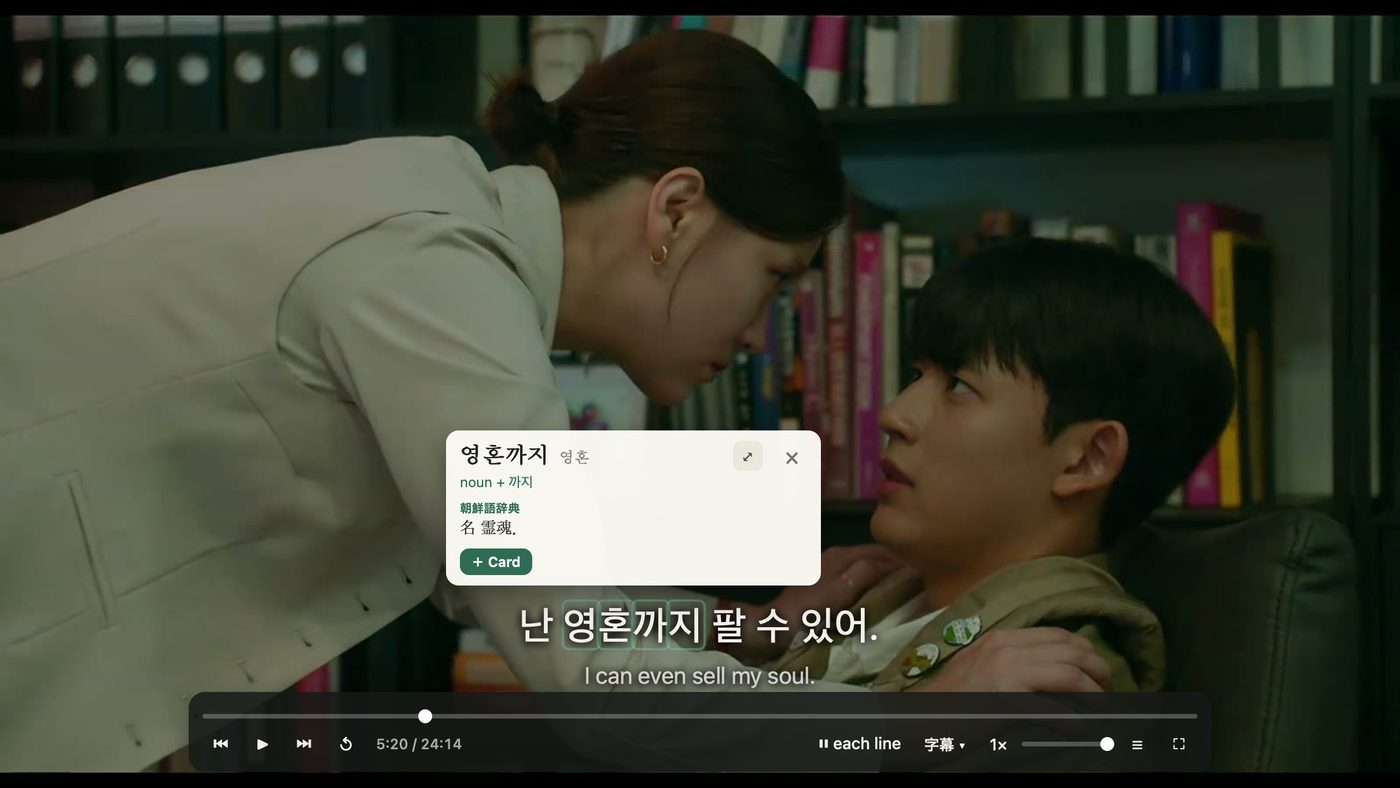
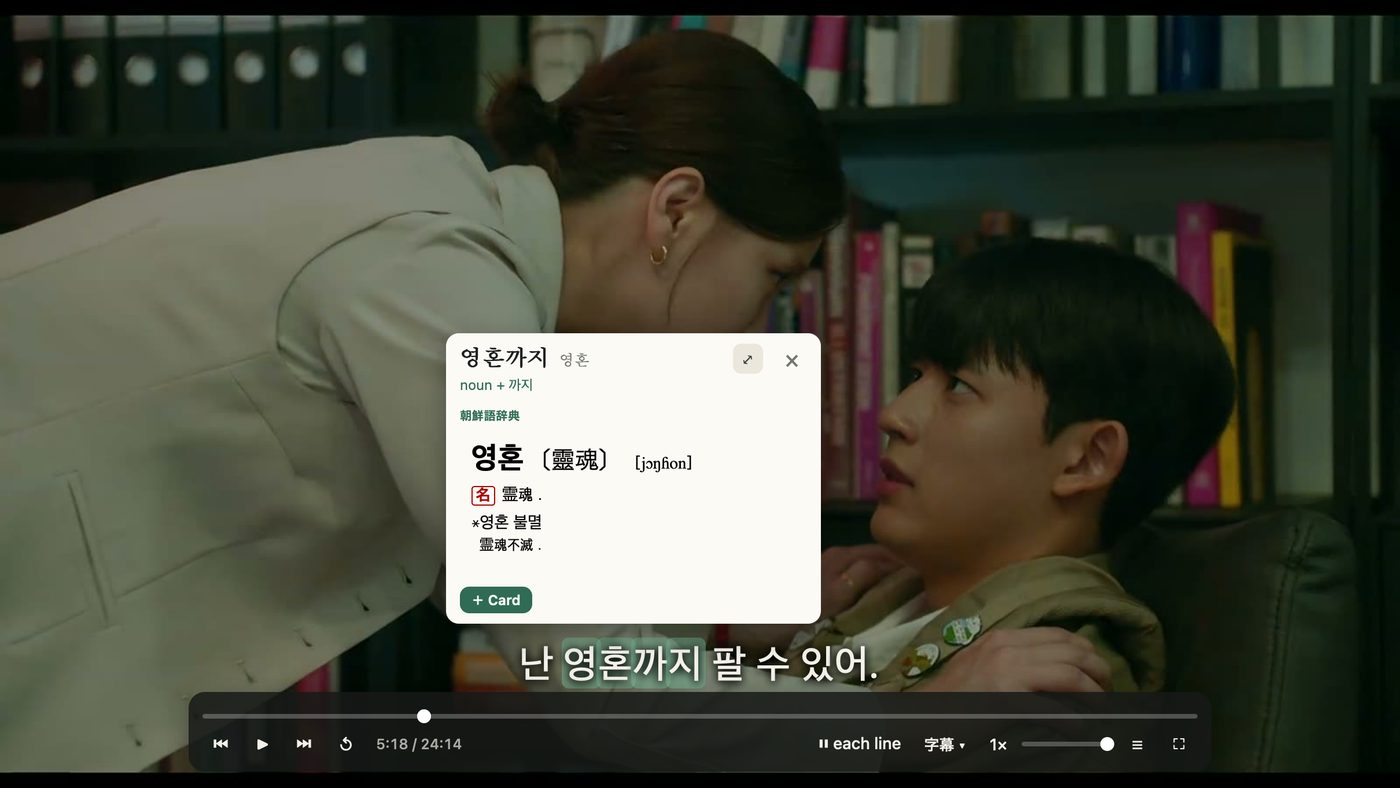
Player popup shows dictionary entries as laid out, with tabs and lookups inside them; ambiguous Korean forms offer the other verb

Changed region(s): [[0.3071, 0.3959, 0.645, 0.8832]]

diff --git a/desktop/web/player.js b/desktop/web/player.js
@@ -238,17 +238,13 @@ async function showPop(res,cue,r1,r2,P=pop){
     // The word as the subtitle writes it (門口), with the dictionary's form when that differs (门口, 食べる).
     const shown=res.written&&res.written!==res.key?res.written:res.key;
     P.el.innerHTML=`<div class="p-head"><b class="p-word">${esc(shown)}</b>${shown!==res.key?`<span class="p-key">${esc(res.key)}</span>`:''}<span class="p-freq"></span><span class="p-saved"></span><button class="p-size" data-p="size" title="Bigger / smaller popup"></button><button class="p-close" data-p="close" title="Close (Esc)">×</button></div>
-      ${res.explain?`<div class="p-explain">${esc(res.explain)}</div>`:''}
-      <div class="p-defs">${items.map((it,n)=>`<div class="p-def" data-n="${n}"><div class="p-dict">${esc(shortName(it.dictionary))}${it.page&&it.page!==it.key?` · ${esc(it.page)}`:''}</div><div class="p-text">…</div></div>`).join('')}</div>
-      <div class="p-full" hidden></div>
-      <div class="p-actions"><button data-p="card">＋ Card</button><button data-p="full">Full entry</button><button data-p="main">Open in Kotoba</button><button data-p="copy">Copy</button></div>`;
+      ${res.explain||alts(res).length?`<div class="p-explain">${esc(res.explain||'')}${alts(res).map((f,j)=>`<button class="p-alt" data-p="alt" data-j="${j}" title="${esc(f.explain||'')}">or ${esc(f.base)}</button>`).join('')}</div>`:''}
+      <div class="p-tabs">${items.map((it,n)=>`<button class="p-tab${n?'':' on'}" data-p="tab" data-n="${n}">${esc(shortName(it.dictionary))}</button>`).join('')}</div>
+      <div class="p-entry"></div>
+      <div class="p-actions"><button data-p="card">＋ Card</button><button data-p="main">Open in Kotoba</button><button data-p="copy">Copy</button></div>`;
     P.items=items;
-    api('gloss.rec',{recs:items.map(x=>x.rec),max:360}).then(g=>{
-      if(P.key!==key)return;
-      // Definitions are drawn a character at a time, so a word in them can be looked up too.
-      g.forEach((x,n)=>{const el=P.el.querySelector(`.p-def[data-n="${n}"] .p-text`);if(el)el.innerHTML=x.text?chars(x.text,'dch'):'—';});
-      place(P);
-    }).catch(()=>{});
+    // The entry as the dictionary lays it out (same page as the main window), not flattened text.
+    showEntry(P,0);
     Promise.all([api('freq',{key:res.key,reading:''}),dictGroups()]).then(([f,groups])=>{
       if(P.key!==key)return;
       // Only frequency lists in the subtitle's language (JPDB ranks mean nothing for a Cantonese word).
@@ -266,6 +262,8 @@ async function showPop(res,cue,r1,r2,P=pop){
   P.r1=r1;P.r2=r2;
   place(P);
 }
+/** Other readings of the same form (걸었다고: 걷다 or 걸다), which only the context can decide between. */
+function alts(res){return (res.forms||[]).filter(f=>f.base&&f.base!==res.key&&f.items&&f.items.length).slice(0,2);}
 let groupsCache=null;
 function dictGroups(){return groupsCache||(groupsCache=api('dicts').then(ds=>Object.fromEntries(ds.map(d=>[d.id,d.grp||'Japanese']))));}
 function bars(rank){const l=!rank?0:rank<=2000?4:rank<=8000?3:rank<=25000?2:1;return `<span class="fbars l${l}"><i></i><i></i><i></i><i></i></span>`;}
@@ -294,43 +292,101 @@ function textLang(t){
   if(/[\u4e00-\u9fff]/.test(c))return st.lang==='zh'?'zh':'ja';
   return '';
 }
-let defT=0,defAt=null,lastPopPoint=null;
+let defT=0;
 function wire(P){
   const el=P.el;
   el.addEventListener('mouseenter',()=>clearTimeout(pop.hideT));
   el.addEventListener('mouseleave',(e)=>{if(!pop.pinned&&!(e.relatedTarget&&e.relatedTarget.closest&&e.relatedTarget.closest('.kpop')))leaveSubs();});
-  el.addEventListener('mousemove',(e)=>{
-    lastPopPoint={x:e.clientX,y:e.clientY};
-    if(!KotobaHover.matches(e))return;
-    const span=e.target.closest('.dch');if(!span)return;
-    const box=span.closest('.p-text');const at=P.level+':'+box.parentElement.dataset.n+':'+span.dataset.i;
-    if(at===defAt)return;defAt=at;
-    clearTimeout(defT);defT=setTimeout(()=>lookupInDef(P,box,+span.dataset.i,at),90);
-  });
   el.addEventListener('click',(e)=>onPopClick(P,e));
 }
-async function lookupInDef(P,box,i,at){
-  const spans=[...box.querySelectorAll('.dch')];
-  const text=spans.slice(i,i+24).map(x=>x.textContent).join('');
+const AUDIO_HREF=/^sound:\/\/|\.(mp3|m4a|aac|ogg|oga|opus|wav|spx)(#.*)?$/i;
+function showEntry(P,n){
+  const it=P.items&&P.items[n];if(!it)return;
+  P.tab=n;
+  P.el.querySelectorAll('.p-tab').forEach(t=>t.classList.toggle('on',+t.dataset.n===n));
+  const f=document.createElement('iframe');f.src=`/d/${it.dict}/${it.rec}.entry`;
+  P.el.querySelector('.p-entry').replaceChildren(f);
+  f.addEventListener('load',()=>{
+    const d=f.contentDocument;if(!d||!d.body)return;
+    const css=d.createElement('style');
+    css.textContent='body.kotoba-entry{padding:2px 6px 8px!important;font-size:14.5px}::highlight(kotoba){background-color:rgba(124,194,160,.5)}';
+    d.head.appendChild(css);
+    wireFrame(P,f,it);
+    fitFrame(P);setTimeout(()=>fitFrame(P),250);
+    // A page with several words (大辞林 けんのう: 献納, 権能) opens at the heading of the one looked up.
+    const key=P.res&&P.res.key,shown=P.res&&P.res.written;
+    const heads=[...d.querySelectorAll('[data-name*="見出"],[data-name*="表記"],[data-name="headword"],.yt-word,.headword,h1,h2,h3')];
+    const clean=s=>s.replace(/[\s・‐\-▽▼×]/g,'');
+    const h=heads.find(e=>{const t=clean(e.textContent);return t&&(t.includes(clean(key||''))||shown&&t.includes(clean(shown)));});
+    if(h){const r=h.getBoundingClientRect();if(r.top>40)f.contentWindow.scrollTo(0,r.top-8);}
+  });
+}
+function fitFrame(P){
+  const f=P.el.querySelector('.p-entry iframe');if(!f||!f.contentDocument)return;
+  const cap=P.el.classList.contains('big')?Math.min(440,innerHeight*.5):170;
+  f.style.height=Math.min(cap,f.contentDocument.documentElement.scrollHeight)+'px';
+  place(P);
+}
+// Hovering a word in an entry (with the hover key) opens the next popup for it.
+let lastFrame=null,defTok=null;
+function wireFrame(P,f,it){
+  const d=f.contentDocument;let last=null;
+  const probe=(x,y,key)=>{
+    if(!key)return;
+    const r=d.caretRangeFromPoint(x,y);if(!r||r.startContainer.nodeType!==3)return;
+    if(last&&last.node===r.startContainer&&last.off===r.startOffset)return;
+    last={node:r.startContainer,off:r.startOffset};
+    clearTimeout(defT);defT=setTimeout(()=>lookupInFrame(P,f,last.node,last.off),90);
+  };
+  d.addEventListener('mousemove',e=>{lastFrame={P,f,x:e.clientX,y:e.clientY,probe};probe(e.clientX,e.clientY,KotobaHover.matches(e));});
+  d.addEventListener('keydown',e=>{if(KotobaHover.isKey(e)&&lastFrame&&lastFrame.f===f)probe(lastFrame.x,lastFrame.y,true);});
+  d.addEventListener('click',e=>{
+    pop.pinned=true;
+    const a=e.target.closest('a[href]');if(!a)return;e.preventDefault();
+    const h=a.getAttribute('href');
+    if(AUDIO_HREF.test(h))new Audio(`/d/${it.dict}/`+h.replace(/^sound:\/\//i,'').replace(/^[\/\\]+/,'').replace(/#.*$/,'').split('/').map(encodeURIComponent).join('/')).play().catch(()=>{});
+  });
+}
+async function lookupInFrame(P,f,node,off){
+  const d=f.contentDocument;
+  // Up to 24 characters from the pointer on, across text nodes (ruby readings left out).
+  const walker=d.createTreeWalker(d.body,NodeFilter.SHOW_TEXT,{acceptNode:n=>n.parentElement&&n.parentElement.closest('rt,rp,script,style')?NodeFilter.FILTER_REJECT:NodeFilter.FILTER_ACCEPT});
+  walker.currentNode=node;
+  const parts=[];let text='',n=node,o=off;
+  while(n&&text.length<24){const t=n.nodeValue.slice(o);if(t)parts.push({n,o,len:t.length});text+=t;n=walker.nextNode();o=0;}
+  text=text.slice(0,24);
   if(!text.trim()||/^[\s\p{P}\d]/u.test(text))return;
+  const tok={};defTok=tok;
   const lang=textLang(text);
   let res;try{res=await api('lookup',{text,lang:lang==='zh'||lang==='th'?lang:''});}catch(e){return;}
-  if(defAt!==at||!res.items.length)return;
-  P.el.querySelectorAll('.dch.hl').forEach(x=>x.classList.remove('hl'));
-  const n=Array.from(res.matched||text[0]).length;
-  const hit=spans.slice(i,i+n);hit.forEach(x=>x.classList.add('hl'));
-  res.written=hit.map(x=>x.textContent).join('');
+  if(defTok!==tok||!res.items.length)return;
+  const range=d.createRange();range.setStart(parts[0].n,parts[0].o);
+  let rem=(res.matched||text[0]).length;
+  for(const p of parts){if(rem<=p.len){range.setEnd(p.n,p.o+rem);break;}rem-=p.len;}
+  try{f.contentWindow.CSS.highlights.set('kotoba',new f.contentWindow.Highlight(range));}catch(e){}
+  res.written=range.toString();
+  const fr=f.getBoundingClientRect(),rects=range.getClientRects();
+  const shift=r=>({left:r.left+fr.left,right:r.right+fr.left,top:r.top+fr.top,bottom:r.bottom+fr.top});
+  const a=rects[0]||range.getBoundingClientRect(),b=rects[rects.length-1]||a;
   const C=popupAt(P.level+1);C.lang=lang;C.cue=P.cue;
-  showPop(res,P.cue,hit[0].getBoundingClientRect(),hit[hit.length-1].getBoundingClientRect(),C);
+  showPop(res,P.cue,shift(a),shift(b),C);
 }
+function clearFrameHighlight(P){const f=P&&P.el.querySelector('.p-entry iframe');try{f.contentWindow.CSS.highlights.delete('kotoba');}catch(e){}}
 wire(pop);
 async function onPopClick(P,e){
   pop.pinned=true;
   const b=e.target.closest('[data-p]');if(!b)return;
   const res=P.res,it=P.items&&P.items[0];
+  if(b.dataset.p==='alt'){
+    // Show the other reading instead; the one shown now becomes the alternative.
+    const f=alts(res)[+b.dataset.j];if(!f)return;
+    const now=(res.forms||[]).find(x=>x.base===res.key)||{base:res.key,explain:res.explain,items:res.items};
+    const next={...res,key:f.base,explain:f.explain||'',items:(f.items||[]).concat(f.extra||[]),forms:[f,now,...(res.forms||[]).filter(x=>x!==f&&x!==now)]};
+    P.key=null;showPop(next,P.cue,P.r1,P.r2,P);return;
+  }
   if(b.dataset.p==='close'){
     // × closes this popup and the ones opened from it; the first one also resumes the video.
-    if(P.level){closeFrom(P.level);stack[P.level-1].el.querySelectorAll('.dch.hl').forEach(x=>x.classList.remove('hl'));defAt=null;}
+    if(P.level){closeFrom(P.level);clearFrameHighlight(stack[P.level-1]);}
     else{hidePop();resumeAfterHover();}
     return;
   }
@@ -338,20 +394,12 @@ async function onPopClick(P,e){
     // Compact by default (first dictionary, two lines); ⤢ shows every dictionary and the other actions.
     const big=!P.el.classList.contains('big');
     store.set('player.popBig',big);
-    for(const Q of stack){Q.el.classList.toggle('big',big);if(!big)Q.el.querySelector('.p-full')&&(Q.el.querySelector('.p-full').hidden=true);place(Q);}
+    for(const Q of stack){Q.el.classList.toggle('big',big);fitFrame(Q);}
     return;
   }
   if(b.dataset.p==='copy'){navigator.clipboard.writeText(res.key).catch(()=>{});osd('Copied');}
   if(b.dataset.p==='main')send({cmd:'lookupInMain',word:res.key});
-  if(b.dataset.p==='full'&&it){
-    const full=P.el.querySelector('.p-full');
-    full.hidden=!full.hidden;
-    if(!full.hidden)full.innerHTML=P.items.map((x,n)=>`<button class="p-tab ${n===0?'on':''}" data-rec="${x.rec}" data-dict="${x.dict}">${esc(shortName(x.dictionary))}</button>`).join('')+`<iframe src="/d/${it.dict}/${it.rec}.entry"></iframe>`;
-  }
-  if(b.classList.contains('p-tab')){
-    P.el.querySelectorAll('.p-tab').forEach(x=>x.classList.toggle('on',x===b));
-    P.el.querySelector('.p-full iframe').src=`/d/${b.dataset.dict}/${b.dataset.rec}.entry`;
-  }
+  if(b.dataset.p==='tab'){closeFrom(P.level+1);showEntry(P,+b.dataset.n);return;}
   if(b.dataset.p==='card'&&it){
     try{
       const g=(await api('gloss.rec',{recs:[it.rec],max:2000}))[0];
@@ -370,9 +418,8 @@ for(const id of ['sub-main','t-list']){
 }
 document.addEventListener('keydown',(e)=>{
   if(!KotobaHover.isKey(e))return;
-  // Pressing the key over a popup's definition looks up the word under the pointer there.
-  const inPop=lastPopPoint&&document.elementFromPoint(lastPopPoint.x,lastPopPoint.y);
-  if(inPop&&inPop.closest('.kpop')){inPop.dispatchEvent(new MouseEvent('mousemove',{bubbles:true,clientX:lastPopPoint.x,clientY:lastPopPoint.y,shiftKey:e.shiftKey,altKey:e.altKey,ctrlKey:e.ctrlKey,metaKey:e.metaKey}));return;}
+  // Pressing the key over an entry in a popup looks up the word under the pointer there.
+  if(lastFrame&&lastFrame.f.isConnected&&lastFrame.f.matches(':hover')){lastFrame.probe(lastFrame.x,lastFrame.y,true);return;}
   if(!lastHoverPoint)return;
   const target=document.elementFromPoint(lastHoverPoint.x,lastHoverPoint.y);
   if(target)onHover({target,clientX:lastHoverPoint.x,clientY:lastHoverPoint.y,

diff --git a/desktop/web/kotoba-video.user.js b/desktop/web/kotoba-video.user.js
@@ -1,7 +1,7 @@
 // ==UserScript==
 // @name         Kotoba Video Text
 // @namespace    app.kotoba.desktop
-// @version      0.3.0
+// @version      0.3.1
 // @description  Look up YouTube and GagaOOLala subtitles in Kotoba for Mac: hold Shift over a word.
 // @match        https://www.youtube.com/watch*
 // @match        https://www.gagaoolala.com/*/videos/*
@@ -76,6 +76,7 @@
     #kotoba-video-pop .k-saved:not(:empty) + .k-size { margin-left: 6px; }
     #kotoba-video-pop .k-close { align-self: center; margin-left: 4px; border: 0; background: transparent; color: #72766f; border-radius: 7px; width: 26px; height: 26px; font-size: 21px; line-height: 24px; padding: 0; cursor: pointer; }
     #kotoba-video-pop .k-close:hover { background: #ece7dc; color: #1d211f; }
+    #kotoba-video-pop .k-alt { margin-left: 8px; border: 1px solid #cfe0d6; background: #fff; color: #2f6b55; border-radius: 10px; padding: 0 8px; font: 600 11.5px/1.7 -apple-system,BlinkMacSystemFont,sans-serif; cursor: pointer; }
     #kotoba-video-pop .k-explain { color: #2f6b55; font-size: 12px; }
     #kotoba-video-pop .k-dict { font-size: 11px; font-weight: 700; color: #2f6b55; margin-top: 5px; }
     #kotoba-video-pop.k-big .k-dict { margin-top: 8px; }
@@ -205,13 +206,15 @@
   }
   const shortName = n => String(n).replace(/\s*[\[(（][\d\-. v]+[\])）]\s*$/, '').replace(/^(小学館|三省堂|研究社|大修館|旺文社)\s*/, '').replace(/\s*第.版$/, '').slice(0, 16);
   let groups = null;
+  // Other readings of the same form (걸었다고: 걷다 or 걸다); only the context can decide.
+  const alts = res => (res.forms || []).filter(f => f.base && f.base !== res.key && f.items && f.items.length).slice(0, 2);
   async function showPop(res, anchor) {
     shown = res;
     const byDict = []; for (const it of res.items) if (!byDict.some(x => x.dict === it.dict) && it.kind !== 'kanji') byDict.push(it);
     const items = byDict.slice(0, 4);
     const written = res.written && res.written !== res.key ? res.written : res.key;
     pop.innerHTML = `<div class="k-head"><b class="k-word">${esc(written)}</b>${written !== res.key ? `<span class="k-key">${esc(res.key)}</span>` : ''}<span class="k-freq"></span><span class="k-saved"></span><button class="k-size" data-k="size" title="Bigger / smaller popup">${big() ? '⤡' : '⤢'}</button><button class="k-close" data-k="close" title="Close (Esc)">×</button></div>
-      ${res.explain ? `<div class="k-explain">${esc(res.explain)}</div>` : ''}
+      ${res.explain || alts(res).length ? `<div class="k-explain">${esc(res.explain || '')}${alts(res).map((f, j) => `<button class="k-alt" data-k="alt" data-j="${j}" title="${esc(f.explain || '')}">or ${esc(f.base)}</button>`).join('')}</div>` : ''}
       ${items.map((it, n) => `<div class="${n ? 'k-more' : ''}"><div class="k-dict">${esc(shortName(it.dictionary))}${it.page && it.page !== it.key ? ' · ' + esc(it.page) : ''}</div><div class="k-text" data-n="${n}">…</div></div>`).join('')}
       <div class="k-actions"><button data-k="card">＋ Card</button><button class="k-more" data-k="open">Open in Kotoba</button><button class="k-more" data-k="copy">Copy</button></div>`;
     pop.classList.toggle('k-big', big());
@@ -264,6 +267,12 @@
     const b = e.target.closest('[data-k]'); if (!b || !shown) return;
     const res = shown, it = pop.items && pop.items[0];
     if (b.dataset.k === 'close') { hidePop(); return; }
+    if (b.dataset.k === 'alt') {
+      const f = alts(res)[+b.dataset.j]; if (!f) return;
+      const now = (res.forms || []).find(x => x.base === res.key) || { base: res.key, explain: res.explain, items: res.items };
+      showPop({ ...res, key: f.base, explain: f.explain || '', items: (f.items || []).concat(f.extra || []), forms: [f, now, ...(res.forms || []).filter(x => x !== f && x !== now)] }, pop.anchor);
+      return;
+    }
     if (b.dataset.k === 'size') {
       store.set('kotoba.popBig', big() ? '0' : '1');
       pop.classList.toggle('k-big', big()); b.textContent = big() ? '⤡' : '⤢';

diff --git a/desktop/web/player.css b/desktop/web/player.css
@@ -18,7 +18,7 @@ body.idle #subs{bottom:34px}
 .ch.hl{background:rgba(124,194,160,.45);box-shadow:0 0 0 2px rgba(124,194,160,.45)}
 
 /* Dictionary popup: compact by default (first dictionary, two lines, ＋ Card); .big shows everything. */
-.kpop{position:absolute;z-index:20;width:min(300px,80vw);max-height:min(70vh,560px);overflow:auto;background:rgba(252,250,245,.97);color:#1d211f;border-radius:11px;
+.kpop{position:absolute;z-index:20;width:min(300px,80vw);max-height:min(70vh,560px);overflow:auto;background:#fcfaf5;color:#1d211f;border-radius:11px;
   box-shadow:0 8px 28px rgba(0,0,0,.4);padding:9px 12px 9px;font:13px/1.5 var(--sans);user-select:text;-webkit-user-select:text}
 .kpop.big{width:min(460px,86vw);border-radius:14px;padding:14px 16px 12px;font-size:14px;line-height:1.55}
 .p-head{display:flex;align-items:baseline;gap:8px;flex-wrap:wrap}
@@ -35,20 +35,15 @@ body.idle #subs{bottom:34px}
 .p-close:hover{background:#ece7dc;color:#1d211f}
 .kpop.big .p-size::before{content:'⤡'}
 .p-explain{color:#2f6b55;font-size:12px;margin-top:1px}
-.p-defs{margin-top:5px;display:flex;flex-direction:column;gap:9px}
-.kpop.big .p-defs{margin-top:8px}
-.kpop:not(.big) .p-def:not(:first-child){display:none}
-.p-dict{font-size:11px;font-weight:700;color:#2f6b55;letter-spacing:.02em}
-.p-text{font:13.5px/1.5 var(--serif);color:#2c302d;display:-webkit-box;-webkit-line-clamp:2;-webkit-box-orient:vertical;overflow:hidden}
-.kpop.big .p-text{font-size:15px;line-height:1.6;-webkit-line-clamp:5}
-.kpop[hidden]{display:none}
-.kpop.child{z-index:21;box-shadow:0 10px 34px rgba(0,0,0,.5);outline:1px solid #e3ddd1}
-.dch{border-radius:3px}
-.dch.hl{background:rgba(124,194,160,.45);box-shadow:0 0 0 1.5px rgba(124,194,160,.45)}
-.p-full{margin-top:10px}
-.p-full iframe{width:100%;height:340px;border:1px solid #e3ddd1;border-radius:10px;background:#fffdf9;margin-top:6px}
-.p-tab{font:600 12px var(--sans);border:1px solid #e3ddd1;background:#fff;border-radius:12px;padding:3px 10px;margin:0 4px 0 0;color:#3d433f;cursor:pointer}
-.p-tab.on{background:#2f6b55;color:#fff;border-color:#2f6b55}
+.p-tabs{display:flex;gap:5px;flex-wrap:wrap;margin-top:7px}
+.p-tab{font:700 11px/1.9 var(--sans);letter-spacing:.02em;border:0;background:transparent;border-radius:9px;padding:0 8px;color:#72766f;cursor:pointer}
+.p-tab:hover{background:#ece7dc}
+.p-tab.on{background:#e2ece5;color:#2f6b55}
+.kpop:not(.big) .p-tab:not(.on){display:none}
+.kpop:not(.big) .p-tab.on{background:transparent;padding:0;cursor:default}
+.p-entry{margin:4px -6px 0}
+.p-entry iframe{display:block;width:100%;height:60px;border:0;background:transparent}
+.kpop.big .p-entry{margin-top:6px;border-top:1px solid #ebe5da;padding-top:4px}
 .p-actions{display:flex;gap:6px;margin-top:7px;flex-wrap:wrap}
 .kpop.big .p-actions{margin-top:12px}
 .kpop:not(.big) .p-actions button:not(:first-child){display:none}

diff --git a/android/src/app/kotoba/reader/Library.java b/android/src/app/kotoba/reader/Library.java
@@ -1601,12 +1601,14 @@ public class Library {
                 String verb=sp[0]+"다";
                 JSONArray rows=koEntries(verb);
                 if(rows.length()>0){add.accept(new JSONObject().put("base",verb).put("explain","ending -"+sp[1]).put("chain",verb+" + -"+sp[1]).put("items",rows).put("extra",koEntries("-"+sp[1])),verb);continue;}
-                // A conjugated stem before the ending: 갔다며 = 갔(가다, past) + -다며.
+                // A conjugated stem before the ending: 갔다며 = 갔(가다, past) + -다며. When two verbs fit (걸었다고: 걷다 "walk"
+                // or 걸다 "bet"), both are kept, since only the context can tell; lookups offer the second as "or 걸다".
+                int found=0;
                 for(Deinflect.Candidate c:Deinflect.korean(verb,w->{try{return koKey(w);}catch(Exception e){return false;}},this::koreanStems)){
                     JSONArray r2=koEntries(c.base);if(r2.length()==0)continue;
                     String ex=c.explain().replaceAll("\\s*·?\\s*plain$","");
                     add.accept(new JSONObject().put("base",c.base).put("explain",(ex.isEmpty()?"":ex+" + ")+"ending -"+sp[1]).put("chain",c.base+" + "+c.chain().substring(c.base.length()).replaceFirst("\\s*\\+\\s*다$","")+" + -"+sp[1]).put("items",r2).put("extra",koEntries("-"+sp[1])),c.base);
-                    break;
+                    if(++found==2)break;
                 }
             }
         }

diff --git a/desktop/README.md b/desktop/README.md
@@ -58,8 +58,11 @@ categories, read chapters) by itself. Covers come from `mihon-covers/` in the da
 - Hold Shift and hover over the main line or transcript to open a lookup popup. Settings › Reading can change
   the key to Option, Control, Command, or no key. A second line (e.g. English) can show underneath. The lookup language follows the
   track (ja, zh, ko, th, ru) and can be changed in the 字幕 menu. Chinese is tried as written, then simplified.
-- The popup is compact by default: the word, its grammar breakdown, the first dictionary's definition in two lines and
-  ＋ Card. ⤢ expands it to every dictionary, Full entry, Open in Kotoba and Copy; the size you pick is remembered.
+- The popup shows the entry as the dictionary lays it out (the same page as the main window). It is compact by default:
+  the word, its grammar breakdown, the first dictionary's entry in a short scrolling box and ＋ Card. ⤢ adds a tab per
+  dictionary, a taller box, Open in Kotoba and Copy; the size you pick is remembered.
+- When a form fits two verbs (걸었다고: 걷다 "walk" or 걸다 "bet"; 들었어: 듣다 or 들다), the popup shows the first with
+  **or 걸다** beside the grammar note; click it to switch.
 - Words inside a definition can be looked up too: hold Shift over one and a second popup opens beside it (and so on).
   Releasing Shift while the pointer is over a popup keeps it open. × closes a popup (and any opened from it); Esc or
   clicking elsewhere closes them all. The Firefox helper's popup has the same ⤢ and ×.
